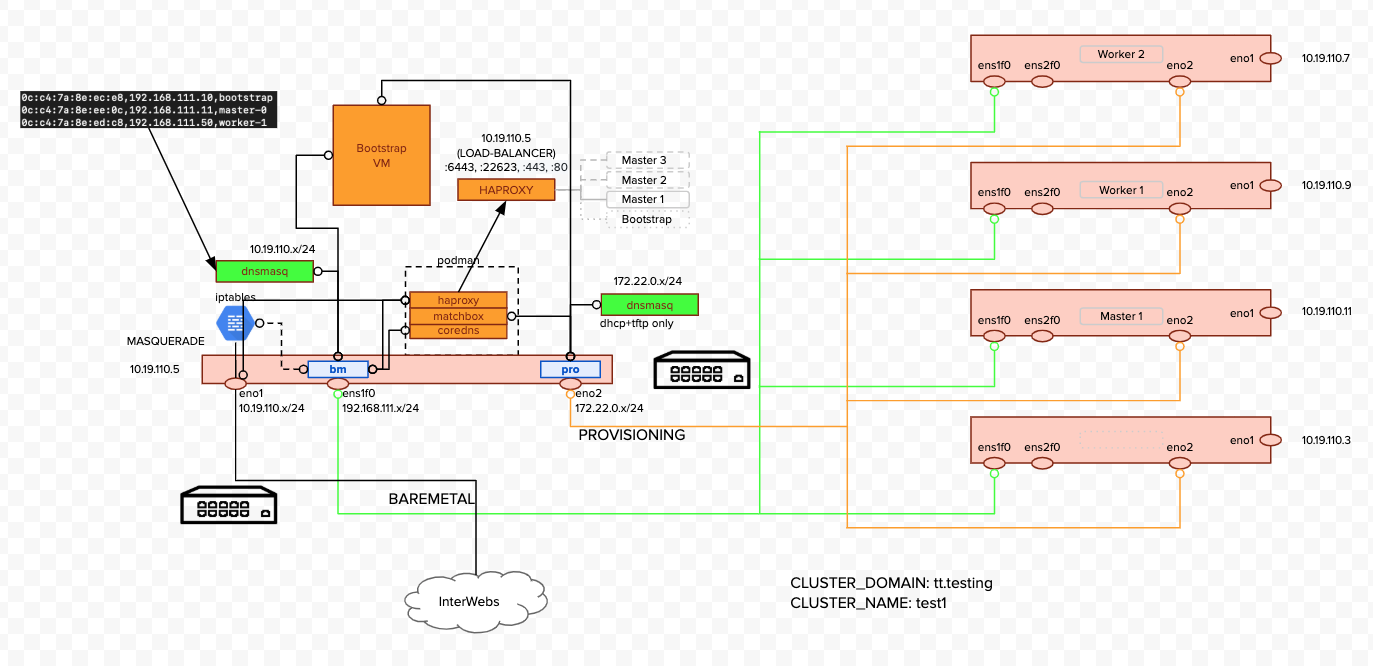
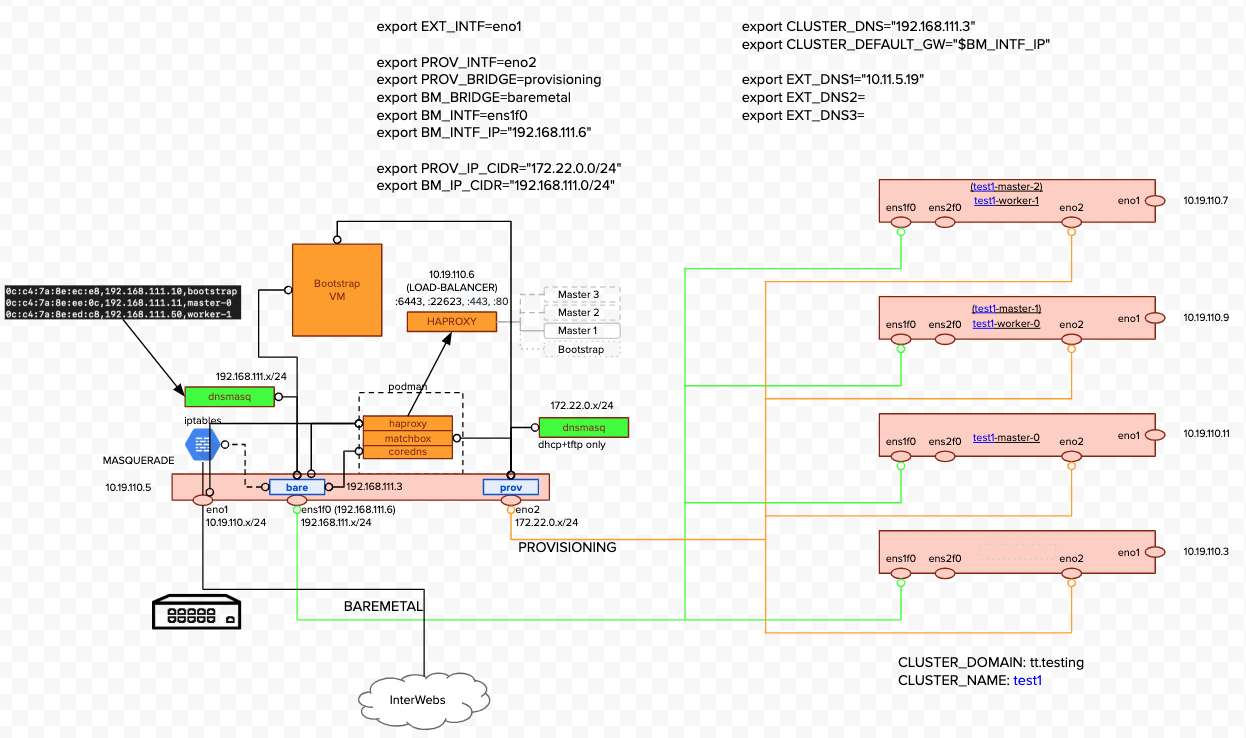
Update documentation

diff --git a/README.md b/README.md
@@ -1,7 +1,7 @@
 
-# KNI Automation Framework
+# KNI UPI Automation Framework
 
-The KNI AF provides a series of scripts that simply the deployment of an OCP 4.x cluster.  KNI AF is designed to leverage a prescribed hardware / network setup in order to simplify the deployment process.
+The KNI UI AF provides a series of scripts that simply the deployment of an OCP 4.x cluster using the UPI method of installation.  KNI AF is designed to leverage a prescribed hardware / network setup in order to simplify the deployment process.
 
 The prescribed infrastructure architecture is shown below.
 
@@ -9,31 +9,47 @@ The prescribed infrastructure architecture is shown below.
 
 The architecture requires:
 
-* A provisioning/bastion server where several helper applications are run
+* A provisioning/bastion server where several helper applications are run.  Either Centos 7.6 or greater can be used as well as RHEL.
 * One or more hardware nodes for Master Nodes
 * Zero or more hardware nodes for Worker Nodes
-
-The provisioning nodes is where the KNI AF is run.
+* All master/worker hosts require two physical interfaces and an Out-Of-Band management network connection (IPMI).
+  * Interface #1 will be used for provisioning and must have pxeboot capability.  This interface is  attached to the provisioning network.
+  * Interface #2 will carry all API/Cluster and application traffic.  This interface is attached to the baremetal network.
+  * The OOB management network must be accessible from the provisioning host
+* Network
+  * Provisioning network -- A private, non-routed network that carries pxeboot traffic
+  * Baremetal network --This network carries all OpenShift SDN traffic.
+    * DHCP -- By default, DHCP is provided by an instance of DNSMASQ running on the provisioning host.  An external DHCP server can be used instead.
+    * DNS -- By default, DNS is provided by an instance of CoreDNS running on the provisioning host.  An external DNS server can be used instead (See OpenShift [UPI/baremetal](https://docs.openshift.com/container-platform/4.1/installing/installing_bare_metal/installing-bare-metal.html) documentation for DNS requirements)
+    * NTP -- An NTP server must be accessible from this network
 
 # UPI Background
 
-## Creating the user-provisioned infrastructure
-
-Before you deploy a OpenShift Container Platform cluster that uses user-provisioned infrastructure (UPI), you must create the underlying infrastructure.
-
-### Prerequistes
+## Prerequistes
 
 Review the OpenShift Container Platform 4.x Tested Integrations page before you create the supporting infrastructure for your cluster.
 
+### SSH Private Key
+
+For OpenShift Container Platform clusters on which you want to perform installation debugging or disaster recovery, you must provide an SSH key that your ssh-agent process uses to the installer.
+
+You can use this key to SSH into the master nodes as the user core. When you deploy the cluster, the key is added to the core user’s ~/.ssh/authorized_keys list.
+
+Most times, this key is the id_rsa.pub for the installation account.  This might need to be created on the provisioning host.
+
+### PULL-SECRET
+
+From the [OpenShift Infrastructure Providers] (https://cloud.redhat.com/openshift/install) page, download your installation pull secret. This pull secret allows you to authenticate with the services that are provided by the included authorities, including Quay.io, which serves the container images for OpenShift Container Platform components.
+
 ### Quick Start
 
-#### Populate cluster/prep_bm_host.src
+#### Populate *cluster/prep_bm_host.src*
 
-* PROV_INTF -- Interface connected to the Provisioning network.  The interface will be added to PROV_BRIDGE
-* PROV_BRIDGE -- Name for the internal linux bridge that will be created
-* BM_INTF -- Interface connected to the Baremetal network,  The interface will be added to BM_BRIDGE
-* BM_BRIDGE -- Name for the internal linux bridge that will be created
-* EXT_INTF -- Interface that provides internet connectivity
+* PROV_INTF -- Provisioning host interface attached to the *provisioning* network.  The interface will be added to **PROV_BRIDGE**
+* PROV_BRIDGE -- Provioning host bridge that will be created for the provisioning network
+* BM_INTF -- Provisioning host interface attached to the *baremetal* network,  The interface will be added to BM_BRIDGE
+* BM_BRIDGE -- Provisioning host bridge that will be created for the *baremetal* bridge
+* EXT_INTF -- Provisioning host interface that provides internet connectivity
 * BM_IP_CIDR -- CIDR of the Baremetal network
   * The default addressing scheme for a network is as follows:
     * The temporary bootstrap node will be located at offset 10 within the cidr
@@ -43,9 +59,6 @@ Review the OpenShift Container Platform 4.x Tested Integrations page before you 
       * .13
     * The first worker node will be at offset 20, second worker at 20 and so on.
     * So for 192.168.111.0/24
-      * 192.169.111.6  -- IP address of baremetal interface
-      * 192.168.111.6  -- Gateway on provisioning host
-      * 192.168.111.3  -- DNS on provisioning host
       * 192.168.111.10 -- bootstrap
       * 192.168.111.11 -- master 0
       * 192.168.111.12 -- master 1
@@ -54,12 +67,13 @@ Review the OpenShift Container Platform 4.x Tested Integrations page before you 
       * 192.168.111.21 -- worker-1
       * ....
 * PROV_IP_CIDR -- CIDR of the Provisioning network
-  * Same as BM_IP_CIDR
+* CLUSTER_DNS -- The IP address of the cluster's external DNS. Defaults to address of CoreDNS running on provisioning host, when DNS is managed externally, change to IP of external DNS.
+* CLUSTER_DEFAULT_GW -- Default gateway for nodes in the cluster. Default to BM_INTF interface of the provisioning host, change to external router if necessary
 * EXT_DNS1 -- IP Address (4 or 6) of first upstream DNS
 * EXT_DNS2 -- IP Address (4 or 6) of (optional) second upstream DNS
 * EXT_DNS3 -- IP Address (4 or 6) of (optional) third first upstream DNS
 
-For example...
+For example in the above diagram...
 
 ```bash
    export PROV_INTF=eno2
@@ -69,11 +83,16 @@ For example...
    export EXT_INTF=eno1
    export PROV_IP_CIDR="172.22.0.0/24"
    export BM_IP_CIDR="192.168.111.0/24"
+   export CLUSTER_DNS="192.168.111.3"
+   export CLUSTER_DEFAULT_GW="$BM_INTF_IP"
+   export EXT_DNS1="10.11.5.19"
 ```
 
 #### Populate cluster/install-config.yaml
 
-Populate the hosts: section with information about the hardware hosts you are going to use for the cluster.  
+The *baseDomain* field sets the cluster domain.  The *metadata/name* field sets the name of the cluster.  The remaining fields (except for *hosts* defined below) should not be changed.
+
+Populate the *hosts:* section with information about the hardware hosts you are going to use for the cluster.  
 
 | Field       |  Default     | Definition                           |
 | ---------   | ------------ | ------------------------------------ |
